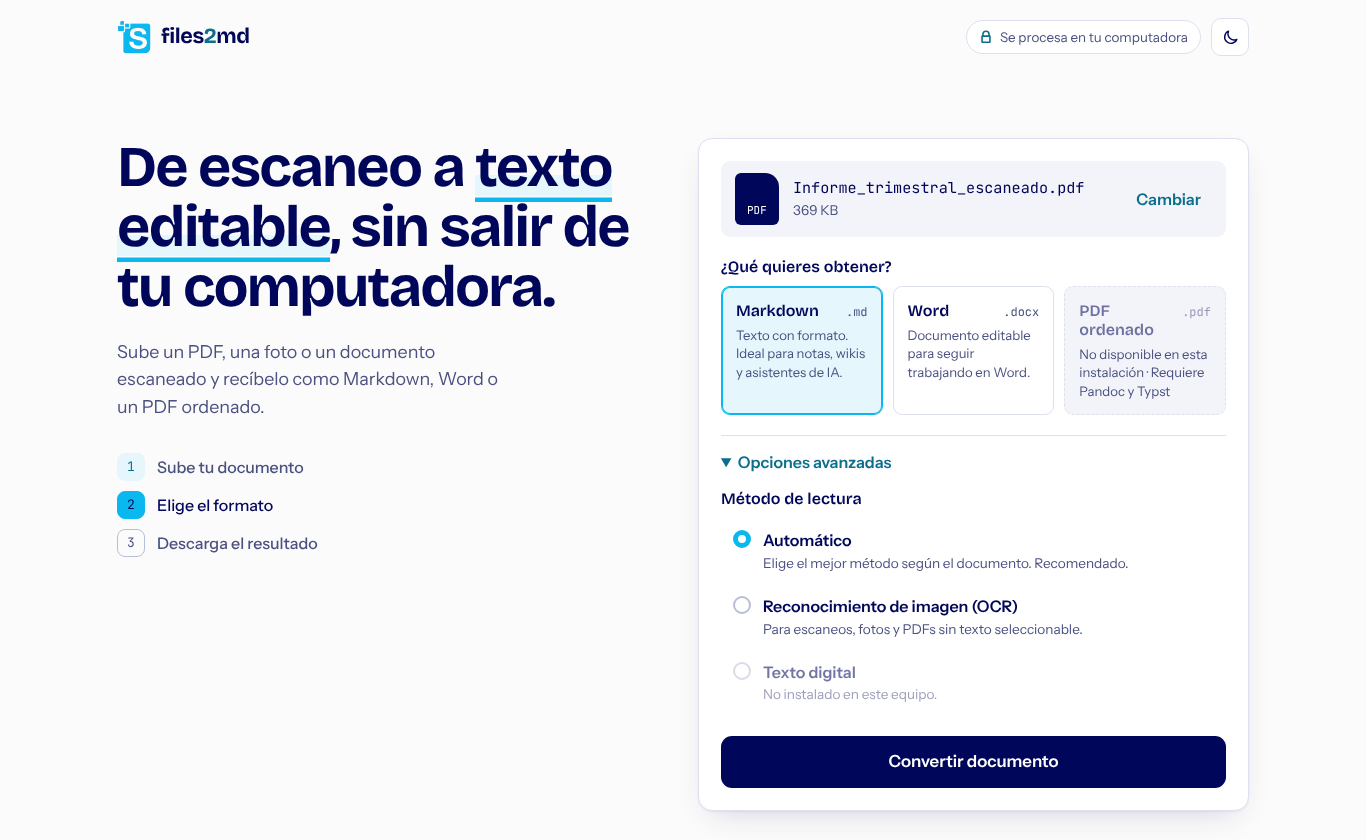
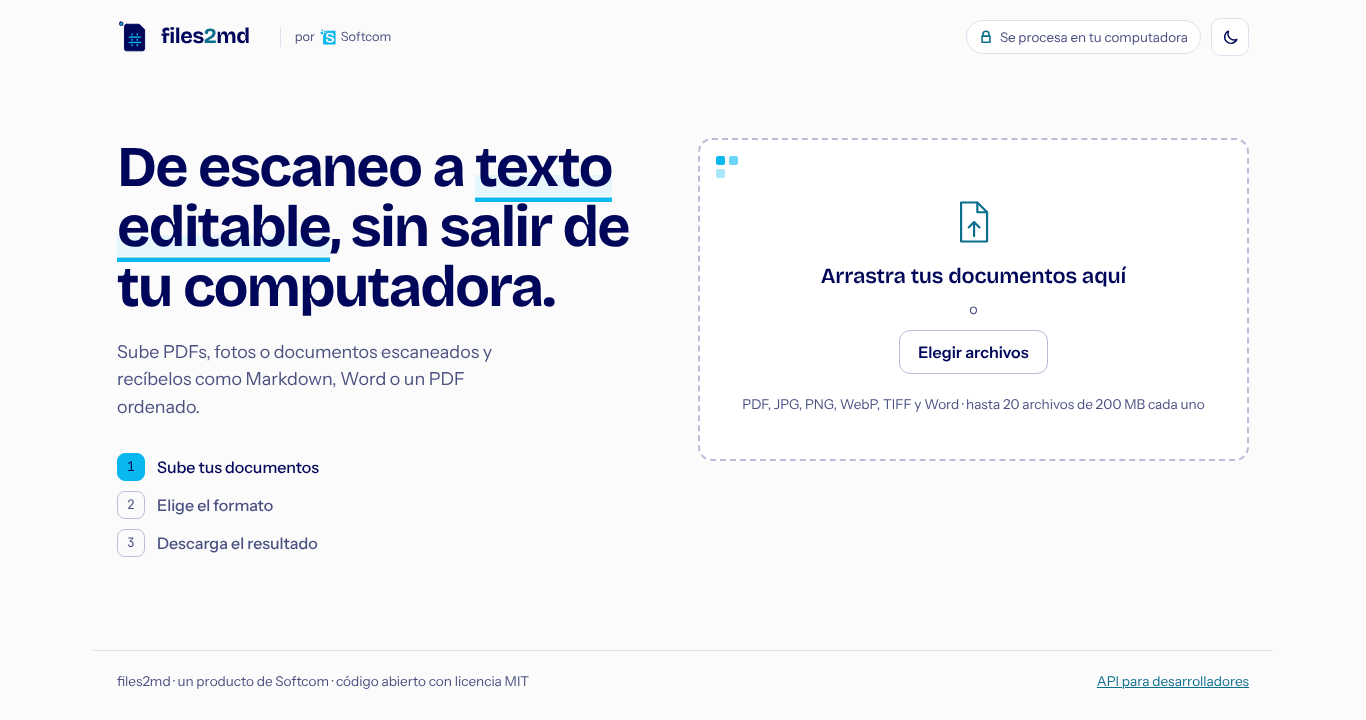
Identidad de producto Softcom: ícono propio, licencia a nombre de Softcom S.R.L.

diff --git a/frontend/src/styles.css b/frontend/src/styles.css
@@ -19,6 +19,8 @@
   --accent: var(--cyan);
   --accent-text: #0b6e8c;
   --accent-tint: #e5f7fd;
+  --logo-ink: var(--navy);
+  --logo-paper: var(--paper);
   --primary-bg: var(--navy);
   --primary-fg: #ffffff;
   --primary-hover: #0a1475;
@@ -53,6 +55,8 @@
   --accent-tint: rgb(8 184 238 / 0.12);
   --primary-bg: var(--cyan);
   --primary-fg: var(--navy);
+  --logo-ink: #f3f4fb;
+  --logo-paper: var(--navy);
   --primary-hover: #36c8f3;
   --pixel: #5a61a6;
   --sheet: #121860;
@@ -156,6 +160,30 @@ svg {
 
 .brand-two {
   color: var(--accent-text);
+}
+
+/* "por Softcom": marca paraguas, discreta al lado del nombre del producto */
+.by-softcom {
+  display: inline-flex;
+  align-items: center;
+  gap: 5px;
+  margin-right: auto;
+  margin-left: 14px;
+  padding-left: 14px;
+  border-left: 1px solid var(--border);
+  color: var(--text-muted);
+  font-size: 0.8rem;
+  text-decoration: none;
+}
+
+.by-softcom:hover {
+  color: var(--text);
+}
+
+@media (max-width: 560px) {
+  .by-softcom {
+    display: none;
+  }
 }
 
 .topbar-actions {

diff --git a/frontend/src/components/Header.tsx b/frontend/src/components/Header.tsx
@@ -1,4 +1,5 @@
 import { useEffect, useState } from "react";
+import ProductIcon from "./ProductIcon";
 
 type Theme = "light" | "dark";
 
@@ -29,10 +30,13 @@ export default function Header() {
   return (
     <header className="topbar">
       <a className="brand" href="/" aria-label="files2md, inicio">
-        <img src="/logo.png" alt="" width={34} height={34} />
+        <ProductIcon />
         <span className="brand-name">
           files<span className="brand-two">2</span>md
         </span>
+      </a>
+      <a className="by-softcom" href="https://softcom.com.pe" target="_blank" rel="noreferrer">
+        por <img src="/softcom.png" alt="" width={16} height={16} /> Softcom
       </a>
       <div className="topbar-actions">
         <span className="privacy-pill" title="Los archivos no se envían a internet">

diff --git a/frontend/src/components/ProductIcon.tsx b/frontend/src/components/ProductIcon.tsx
@@ -1,0 +1,8 @@
+// Ícono de files2md. Los colores vienen de variables CSS para que funcione en claro y oscuro.
+export default function ProductIcon({ size = 34 }: { size?: number }) {
+  return (
+    <svg viewBox="0 0 64 64" width={size} height={size} aria-hidden="true">
+      <path d="M18,8 H42 L52,18 V54 Q52,58 48,58 H18 Q14,58 14,54 V12 Q14,8 18,8 Z" fill="var(--logo-ink)" /><g fill="var(--accent)"><rect x="26" y="24" width="4.5" height="26" rx="2"/><rect x="36" y="24" width="4.5" height="26" rx="2"/><rect x="21" y="30" width="25" height="4.5" rx="2"/><rect x="21" y="40" width="25" height="4.5" rx="2"/></g><rect x="5" y="4" width="6" height="6" rx="1.2" fill="var(--accent)"/>
+    </svg>
+  );
+}

diff --git a/frontend/index.html b/frontend/index.html
@@ -6,7 +6,8 @@
     <meta name="description" content="Convierte PDFs, fotos y escaneos en Markdown, Word o PDF ordenado. Todo se procesa en tu computadora." />
     <meta name="theme-color" content="#FCFBFB" media="(prefers-color-scheme: light)" />
     <meta name="theme-color" content="#04062E" media="(prefers-color-scheme: dark)" />
-    <link rel="icon" type="image/png" href="/logo.png" />
+    <link rel="icon" type="image/svg+xml" href="/favicon.svg" />
+    <link rel="icon" href="/favicon.ico" sizes="any" />
     <title>files2md · De escaneo a texto editable</title>
   </head>
   <body>

diff --git a/frontend/src/App.tsx b/frontend/src/App.tsx
@@ -243,7 +243,7 @@ export default function App() {
         )}
       </main>
       <footer className="footer">
-        <span>files2md · código abierto con licencia MIT</span>
+        <span>files2md · un producto de Softcom · código abierto con licencia MIT</span>
         <a href="/docs">API para desarrolladores</a>
       </footer>
     </div>

diff --git a/README.md b/README.md
@@ -1,4 +1,8 @@
+<img src="frontend/public/logo.svg" alt="" width="72" height="72">
+
 # files2md
+
+Un producto de **[Softcom](https://softcom.com.pe)**. Desarrollado por Cesar Romero.
 
 Convierte PDFs, imágenes y documentos Office a **Markdown**, **Word** o **PDF** ordenado. **100% local**: tus
 archivos no salen de tu máquina.
@@ -123,13 +127,12 @@ curl -O http://127.0.0.1:8000/api/jobs/<job_id>/outputs/informe.md
 - Límite de tamaño de subida y borrado automático por TTL.
 - Sin telemetría. Los motores VLM o de API externa están apagados salvo que los actives.
 
-## Proyecto hermano
-
-[pdf-toolkit](https://github.com/) — combinar, reordenar y convertir PDFs e imágenes en el navegador.
-
 ## Licencia
 
 [MIT](LICENSE). Ver `THIRD_PARTY_NOTICES.md` para las dependencias y sus licencias.
 
-El logo (`frontend/public/logo.png`) y la identidad visual **no** están cubiertos por la licencia MIT:
-si haces un fork, reemplázalos por los tuyos.
+© 2026 SOFTWARE Y COMUNICACIONES SOCIEDAD COMERCIAL DE RESPONSABILIDAD LIMITADA - SOFTCOM S.R.L.
+Código bajo licencia MIT.
+
+El nombre Softcom, su logo, el ícono de files2md (`frontend/public/logo.*`, `favicon.*`, `softcom.png`) y la identidad
+visual son marcas de Softcom y **no** están cubiertos por la licencia MIT: si haces un fork, reemplázalos por los tuyos.
